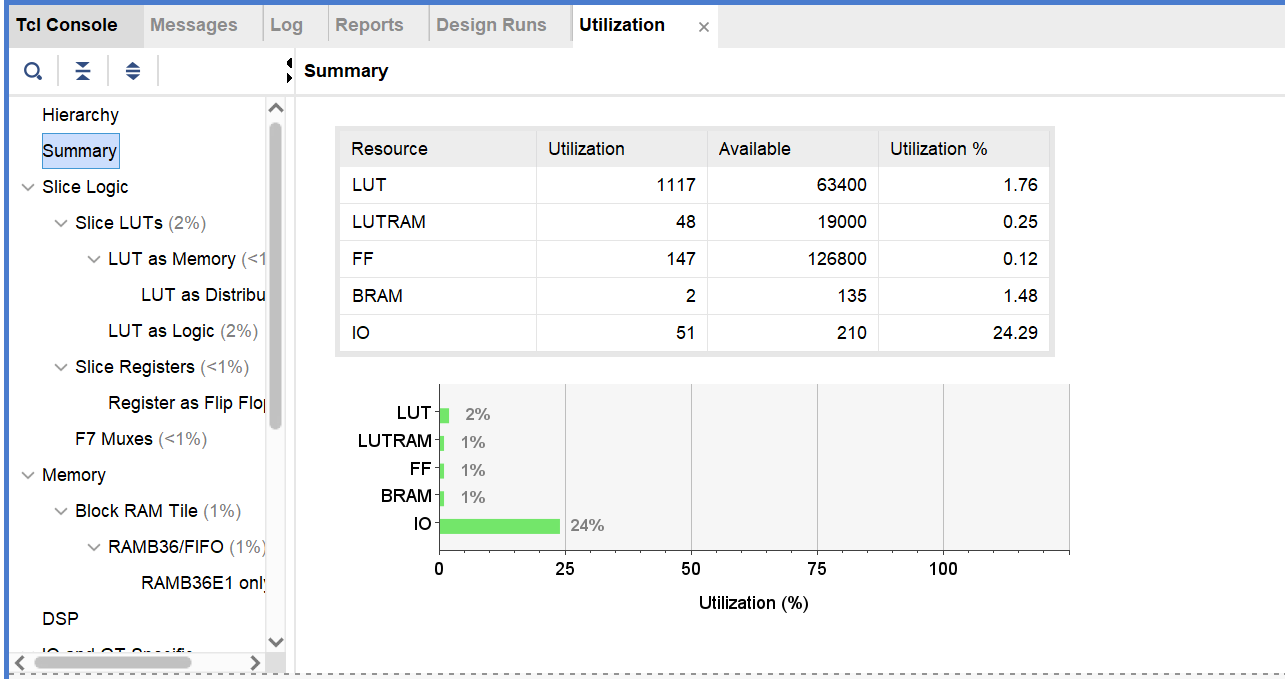
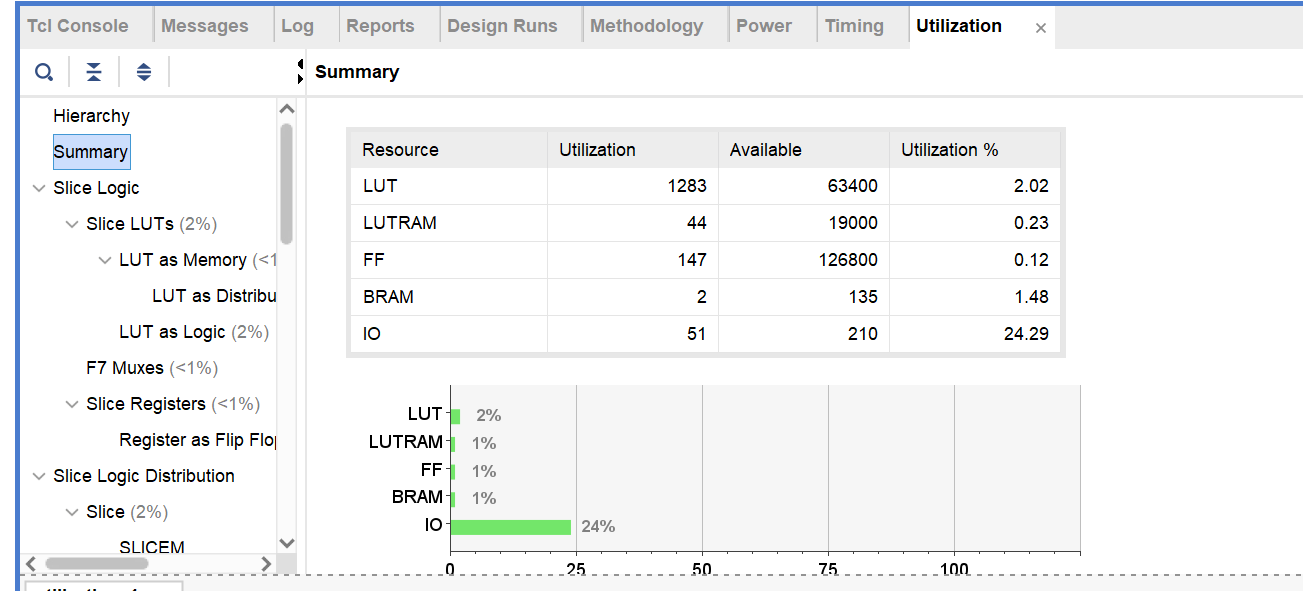
lab09: 指令与数据存储器统一到 CPU 时钟，补生成时钟约束
- prog_rom 改为下降沿取指，地址接 NextPC，与实验指导 9.2.4 的方案一致
- board_dmem 写入改到 cpu_clk 下降沿，result_reg 同样改下降沿写
- cpu_clk 经 BUFG 送到全局时钟网，脉宽保持 10ns
- XDC 增加 create_generated_clock (-edges {1 3 257}) 与异步时钟组，
  no_clock 从 1848 降到 0，871 个端点全部参与时序分析
- 报告更新资源与时序结论：WNS 3.153ns、WHS 0.122ns，并补时钟汇总图

diff --git a/lab09/lab09实验报告.md b/lab09/lab09实验报告.md
@@ -92,7 +92,7 @@ BR_JALR: nextpc = {rs1_imm[31:1], 1'b0};
 
 ### 2.4 单周期时序
 
-单周期 CPU 的难点不在指令译码，而在存储器读写的时间点。本设计按实验指导的方案，以时钟下降沿作为一周期的起点：
+单周期 CPU 的存储器读写时间点需要逐个对齐。本设计按实验指导的方案，以时钟下降沿作为一周期的起点：
 
 - 下降沿同时做四件事：PC 装入 NextPC、指令存储器按 NextPC 取指、寄存器堆写回上一条指令的结果、数据存储器写入上一条 store 指令的数据。
 - 上升沿读数据存储器。此时 ALU 已经把访存地址算好，读出的数据在下一个下降沿随寄存器堆写回。
@@ -102,11 +102,13 @@ BR_JALR: nextpc = {rs1_imm[31:1], 1'b0};
 
 由此带来一个容易忽略的细节：testbench 在 reset 有效期间也要产生一个下降沿，让 NextPC 的 0 被送入指令存储器，把 0 地址的指令取出来。否则 reset 释放后的第一个下降沿会拿未初始化的指令去算 NextPC，PC 会变成不定值。实验指导中“nextPC 在 reset 有效时应保持为全零”说的就是这件事。
 
-load 指令的时序最紧：数据存储器在上升沿读出，寄存器堆在紧接着的下降沿写回，中间只有半个周期。本设计在 100MHz 的单步脉冲下工作，半周期为 10ns，块 RAM 的读延迟加上选择器与布线能够满足；若时序不收敛，可以降低 CPU 时钟频率。
+load 指令的时序最紧，要求数据存储器在上升沿读出，寄存器堆在紧接着的下降沿写回，中间只有 10ns。本设计的 CPU 脉冲高电平正好是 10ns，块 RAM 的读延迟加上选择器与布线能够满足。
 
 ### 2.5 上板顶层与存储器映射
 
-上板工程按功能拆成 `cpu_top.v`、`rv32is.v`、`prog_rom.v`、`board_dmem.v` 四个 Verilog 文件，顶层只负责时钟、复位、存储器映射和外设。为了用同一份 ROM 演示多个程序，4 段程序各占 256 字的 ROM 空间，由 `SW[15:14]` 选择。机器码由 `make_rom.py` 从 `prog_*.S` 汇编成 `prog.hex`，`prog_rom.v` 用 `$readmemh` 在 `initial` 中把 1024 个字装进 BRAM。读时钟用 100MHz 而不是 CPU 的步进时钟：复位期间 PC 一直为 0，BRAM 已经在连续读 0 地址，第一次取指不会拿到未初始化的输出；地址取 PC 而不是组合的 NextPC，避免连续时钟把取指地址一个周期推一条。BRAM 的读延迟只有 10ns，相对自动运行的 1.28us 周期可以忽略。
+上板工程按功能拆成 `cpu_top.v`、`rv32is.v`、`prog_rom.v`、`board_dmem.v` 四个 Verilog 文件，顶层只负责时钟、复位、存储器映射和外设。为了用同一份 ROM 演示多个程序，4 段程序各占 256 字的 ROM 空间，由 `SW[15:14]` 选择。机器码由 `make_rom.py` 从 `prog_*.S` 汇编成 `prog.hex`，`prog_rom.v` 用 `$readmemh` 在 `initial` 中把 1024 个字装进 BRAM。
+
+指令 ROM、数据存储器和 CPU 共用同一个 `cpu_clk`，取指的下降沿做在 `prog_rom` 内部。这个沿同时完成两件事：PC 装入 NextPC，ROM 读入 `mem[NextPC]`。地址用的是沿前就稳定的 NextPC，所以两次操作互不依赖；如果地址取 PC，PC 要等沿后才更新，读到的就是上一条指令。复位脉冲同样给出一个下降沿，把 0 地址的指令预先读出来，第一次取指不会拿到未初始化的数据。CPU 时钟是 100MHz 分频出来的 10ns 脉冲，再经 BUFG 送到全局时钟网。
 
 CPU 的数据地址空间划分为：
 
@@ -164,9 +166,7 @@ assign dmemwrclk = ~clock;  // 下降沿写数据存储器
 
 自检 testbench 写在 `lab09/exp1_cpu/rv32is_tb.v`，使用课程提供的 `add`、`alu`、`mem`、`branch` 四段小程序，逐条指令检查寄存器、存储器和 PC。每个检查点只在出错时打印 MISMATCH，最后输出 `TEST PASSED` 或 `TEST FAILED`。
 
-`add` 验证三条基本运算指令；`alu` 覆盖加减、逻辑、移位、带符号与无符号比较；`mem` 覆盖 `lw`、`sw`、`lb`、`lbu`、`lh`、`lhu`、`sb`、`sh` 以及符号扩展；`branch` 覆盖六条条件分支和 `jal`、`jalr`。
-
-仿真前要把 `lab09/exp1_cpu/tests/` 目录拷贝到 Vivado 的仿真工作目录，即 `工程名.sim/sim_1/behav/xsim/`，因为 `$readmemh` 的相对路径是相对于仿真工作目录解析的。用 iverilog 本地运行时直接在 `exp1_cpu` 目录下执行即可。
+`add` 验证三条基本运算指令；`alu` 覆盖加减、逻辑、移位、带符号与无符号比较；`mem` 覆盖 `lw`、`sw`、`lb`、`lbu`、`lh`、`lhu`、`sb`、`sh` 以及符号扩展；`branch` 覆盖六条条件分支和 `jal`、`jalr`。通过 `iverilog` 验证通过。
 
 ### 4.3 官方测试集
 
@@ -181,8 +181,6 @@ assign dmemwrclk = ~clock;  // 下降沿写数据存储器
 ### 4.4 上板顶层
 
 上板文件为 `lab09/exp2_board/` 下的 `cpu_top.v`、`rv32is.v`、`prog_rom.v`、`board_dmem.v`、`prog.hex` 和 `cpu_top.xdc`。把这 6 个文件加入工程、把顶层设为 `cpu_top` 即可综合。`rv32is.v` 与在线评测提交的 CPU 文件相同，`prog_rom.v` 是同步读的指令 ROM，`prog.hex` 是它的初始化文件，`board_dmem.v` 是 4KB 数据存储器。
-
-`$readmemh` 的相对路径按工具的工作目录解析，而不是按源文件所在目录。仿真前要把 `prog.hex` 拷到 `工程名.sim/sim_1/behav/xsim/`；综合前把 `prog.hex` 加入工程，如果综合日志提示文件打不开，再把它拷到 `工程名.runs/synth_1/`。
 
 板上资源分配：
 
@@ -206,17 +204,6 @@ python3 make_rom.py
 四个程序都只把二进制结果写到 `0x2004`，顶层把 32 位结果按 4 位一组送到数码管，以十六进制显示。斐波那契在 n 不超过 46 时结果在 32 位内，8 位数码管可以完整显示；n 更大时 32 位加法溢出。闰年程序检查 n 能否被 4、100、400 整除：能被 4 整除且不能被 100 整除，或者能被 400 整除时结果为 1。素数判断没有除法指令，用重复减法求余数；闰年的 100 和 400 也用同样的方法。两段程序都处理了 0 和 1 的边界情况。
 
 上板顶层自检写在 `cpu_top_tb.v`，把上电复位、自动运行分频、数码管扫描分频都通过参数缩小，逐个程序检查结果寄存器、停机 PC、LED 和数码管段码，共 21 个用例。
-
-### 4.5 工具链交叉验证
-
-为了避免手工编码出错，用 Docker 搭了一个 RISC-V 工具链做交叉验证：
-
-```bash
-docker build -t riscv32:12 tools/riscv32
-tools/riscv32/check.sh
-```
-
-镜像里安装了 `binutils-riscv64-linux-gnu` 和 `qemu-user`。`tools/rvasm.py` 汇编出的机器码与 GNU as 用 `-march=rv32i -mabi=ilp32` 汇编的结果逐字比较，41 条覆盖各类格式和立即数边界的指令全部一致；`qemu-riscv32` 独立执行 1+2+…+10 的程序，退出码为 55，与预期一致。这只能说明汇编器和程序语义正确，CPU 本身仍以 RTL 仿真和上板为准。
 
 ## 5. 实验结果
 
@@ -246,7 +233,7 @@ xor     xori
 
 ### 5.3 上板
 
-`cpu_top_tb.v` 的 21 个用例全部通过。这组测试检查四个程序共 21 组参数的结果寄存器、停机 PC、LED 和数码管段码，整段仿真约 383us，运行前要把仿真时长调到 400us 以上，否则只能看到前面几个周期。
+`cpu_top_tb.v` 的 21 个用例全部通过。这组测试检查四个程序共 21 组参数的结果寄存器、停机 PC、LED 和数码管段码。整段仿真约 383us，运行我把仿真时长调到 1000us 以完整观察仿真。
 
 ![exp2 上板顶层行为仿真](assets/exp2_simulation.png)
 
@@ -263,15 +250,21 @@ xor     xori
 
 ### 5.4 综合资源与时序
 
-整个设计占 1117 个 LUT、147 个触发器、48 个 LUTRAM 和 2 个 Block RAM，IO 用了 51 个，占用 24.29%，其余资源都在 2% 以内。
+整个设计占 1283 个 LUT、147 个触发器、44 个 LUTRAM 和 2 个 Block RAM，IO 用了 51 个，占用 24.29%。LUT 占 2.02%，Block RAM 占 1.48%，LUTRAM 和触发器都在 0.3% 以下。
 
 ![exp2 资源占用](assets/exp2_utilization.png)
 
-分层报告可以看出资源去向：CPU 本体只占 257 个 LUT 和 32 个触发器，指令 ROM 占 829 个 LUT 和 1 个 Block RAM，数据存储器占 8 个 LUT 和 1 个 Block RAM。指令 ROM 被综合成了 Block RAM，而不是用触发器堆成寄存器堆，这正是上板时希望的结果。
+分层报告可以看出资源去向：CPU 本体占 259 个 LUT 和 32 个触发器，寄存器堆用掉了全部 44 个 LUTRAM；指令 ROM 占 980 个 LUT 和 1 个 Block RAM；数据存储器占 25 个 LUT 和 1 个 Block RAM。
 
 ![exp2 资源分层](assets/exp2_hierarchy.png)
 
-100MHz 时钟下的时序报告给出 WNS 为 5.612ns、WHS 为 0.140ns，保持时间和脉宽都没有违例，工具结论是所有时序约束都已满足。也就是说 10ns 的周期里最长的组合通路只占了约 4.4ns，余量接近一半。
+时序报告里有两根时钟：100MHz 的系统时钟和顶层分频得到的 `cpu_clk`。后者由逻辑产生，Vivado 不会自动把它当成时钟根，必须在 XDC 里用 `create_generated_clock` 按真实波形声明，周期 1.28us、高电平 10ns，写成 `-edges {1 3 257}`。不声明的话 CPU 内部的寄存器全部记成 `no_clock`，时序报告里那点正余量只覆盖 100MHz 那一小块。
+
+![exp2 时钟报告](assets/exp2_clock.png)
+
+声明之后 871 个端点全部参与分析，两个域都没有违例：WNS 3.153ns、WHS 0.122ns、最差脉宽余量 4.500ns，TNS 和 THS 都是 0，工具结论是所有时序约束都已满足。
+
+WNS 对应的路径落在 CPU 域内部，也就是脉冲两个沿之间那 10ns 的组合通路，例如“寄存器堆写入 → ALU → NextPC → PC”。其余路径都被一个完整的低电平隔开，有 1.27us。
 
 ![exp2 时序报告](assets/exp2_timing.png)
 
@@ -279,26 +272,38 @@ xor     xori
 
 ### 6.1 为什么有 S、B、U、J 这些不同的立即数编码
 
-指令编码的总位数是固定的 32 位。R 型指令需要 rs1、rs2、rd 三个寄存器号，没有空间再放立即数；I 型只有一个源寄存器，可以用 12 位立即数；S 型需要两个源寄存器但没有 rd，于是把 12 位立即数拆成 `imm[11:5]` 和 `imm[4:0]` 两段，塞进原本放 rd 和 func7 的位置；B 型是 S 型的变种，分支偏移一定是偶数，最低位恒为 0，于是把这一位省出来，多表示一位偏移，同时把符号位放在 bit 31，和其余立即数共用符号扩展；U 型只有 rd，能放 20 位立即数；J 型只有 rd，跳转偏移最低位恒为 0，于是用 20 位表示偏移。这样安排让所有格式的 opcode、rs1、rs2、rd 位置尽量保持不变，译码器只需要看 opcode 和 func3，硬件代价最小。
+不同指令有不同的寄存器需求，因此有不同的立即数编码。奇怪的编码顺序是为了让 opcode/rs1/rs2/rd 的位置不变以便共享指令解码模块。
 
 ### 6.2 为什么代码段和数据段只取地址的低 18 位仍然正确
 
-程序链接在 `0x8000_0000`，代码段和数据段都落在同一个 256KB 区域内。CPU 内部仍然使用完整的 32 位地址，只是指令存储器用 `iaddr[17:2]` 作为字索引，相当于对 256KB 取模，数据存储器用 `addr[16:2]` 作为字索引，相当于对 128KB 取模。由于所有访问的高位都相同，取模不会改变段内的相对偏移，`0x8000_0000` 这个基址就被自然地丢掉了。分支和跳转都是 PC 相对寻址，PC 从 0 开始也不影响程序内部的相对关系。反过来说，如果程序跨越了存储器容量边界，或者代码和数据不在同一段区域，这种截断就会出错。
+代码段和数据段都落在 `0x8000_0000` 开始的一个 256KB 区域内，程序不会对超过这段区域的地方进行读写，因此是正确的。
 
 ### 6.3 数据存储器用 4 片 8 位存储器实现时如何生成 4 个初始化文件
 
-每个 32 位字按小端顺序拆成 4 个字节：`word[7:0]` 给第 0 片，`word[15:8]` 给第 1 片，`word[23:16]` 给第 2 片，`word[31:24]` 给第 3 片。生成时对原始 hex 文件逐字读取，把每个字的对应字节写到对应片的初始化文件，地址保持不变。这样 4 片存储器按字节写使能各自写入，拼起来就是一个完整的 32 位字，字节写也不会破坏相邻的字节。
+每个 32 位字按小端顺序拆成 4 个字节：`word[7:0]` 给第 0 片，`word[15:8]` 给第 1 片，`word[23:16]` 给第 2 片，`word[31:24]` 给第 3 片。生成时对原始 hex 文件逐字读取，把每个字的对应字节写到对应片的初始化文件，地址保持不变。这样 4 片存储器按字节写使能各自写入，拼起来就是一个完整的 32 位字。
 
 ### 6.4 为什么正常的 RV32I 指令序列中不会出现 0xdead10cc
 
-`0xdead10cc` 的低 7 位是 `0x4c`，即 `1001100`，其中 opcode 的高 5 位 `op[6:2]` 为 `10011`。RV32I 的 37 条指令只使用 00000、00100、01000、01100、01101、00101、11000、11001、11011 这几组 opcode，`10011` 不在其中，所以它不可能是一条合法指令。把它放在通过或失败代码之后，CPU 取到它时就知道测试结束了，不会把它当成真实指令执行。
+`0xdead10cc` 的低 7 位是 `0x4c`，即 `1001100`，该 opcode 不存在，所以它不是一条合法指令。
 
 ## 个人思考
 
-这个实验最花时间的地方不是写指令译码，而是把时序对齐。刚开始我把“下降沿开始一个周期”和 testbench 里“上升沿之后 1ns 检查”当成了同一件事，结果寄存器写回总是慢一拍，单步检查全部失败。后来把每个边沿的时间点画在纸上，才理清关系：第 n 步检查看到的是第 n−1 条指令的结果，因为写回发生在下一步开始的下降沿。手册里“在下一周期的下降沿写入”这句话，只有对着波形看才真正理解。
+参考手册说的自己配了一个 riscv 的容器：
 
-第二个坑是 reset 期间的那次取指。我自己的 testbench 把 `clk` 初始化成 0，课程 testbench 没有初始化，`X → 0` 本身就是一个下降沿。少了这个沿，指令存储器在 reset 释放前没有被读过，第一个下降沿拿到的指令是 X，PC 直接变成不定值，而后面几个用例反而正常，因为前一个用例已经把存储器“预热”了。把 `clk` 初始成 1 之后，第一个用例才和其他用例一样通过。这件事让我明白，testbench 的初始化方式也会改变电路的行为，不能随手写。
+```Dockerfile
+FROM ubuntu:22.04
 
-上板时我一开始把指令 ROM 写成组合读取的 LUT，后来按模块化的要求改成同步 BRAM 加 `$readmemh`。同步 BRAM 的风险是上电后输出没有定义：如果读时钟用 CPU 的步进时钟，复位期间根本不会产生读沿，第一次取指就可能拿到随机指令。解决办法是让 BRAM 用 100MHz 连续读，复位期间 PC 一直是 0，等 CPU 真正走第一步时 0 地址的指令早就读出来了；地址必须用 PC 而不是 NextPC，否则连续时钟会把取指地址一个周期推一条，越跑越远。另一个小坑是顶层自检里 `SW` 的拼接写成了 17 位，程序选择位整体错位，所有结果都是 0，查了很久才发现是位宽不匹配。硬件描述语言里多一位少一位不会报错，只会悄悄地错，这一点和软件很不一样。
+RUN apt-get update \
+ && apt-get install -y --no-install-recommends \
+        binutils-riscv64-linux-gnu \
+        qemu-user \
+ && rm -rf /var/lib/apt/lists/*
 
-最后，用 Docker 里的 GNU as 和 qemu 做交叉验证让我踏实了不少。汇编器的 41 条编码和 GNU as 完全一致，qemu 也能把循环程序跑出正确退出码。但真正能说明 CPU 正确的还是官方测试集的 38 个用例，尤其是它们对符号扩展、比较和跳转边界的覆盖，比自己写的几个小程序全面得多。
+WORKDIR /work
+```
+
+方便之后测 CPU 了。
+
+写 CPU 基本上就是按照原理接线，为了避免魔法数字可以用 `localparam`（类似 C 语言的 `enum`），增加一些易读性。然后几个时钟要仔细想一下是上升还是下降沿做动作。
+
+这次最意外的一课是时序报告本身。板上跑得好好的设计，Vivado 一直报 `no_clock`，我一开始当成噪声略过了，后来才发现 CPU 的时钟是逻辑产生的，工具根本没分析它，那份 5.6ns 的 WNS 只覆盖了 100MHz 那一小块。用生成时钟把真实波形写进去之后，报告立刻变成负的：100MHz 的 ROM 和慢速的 CPU 之间被按 10ns 强行检查，实际上两者之间隔了 1.27us。把 ROM 也挂到 CPU 时钟上、再让时钟走 BUFG，数字才回到正数。“约束满足”这句话，得先看清它到底管住了多少端点。
